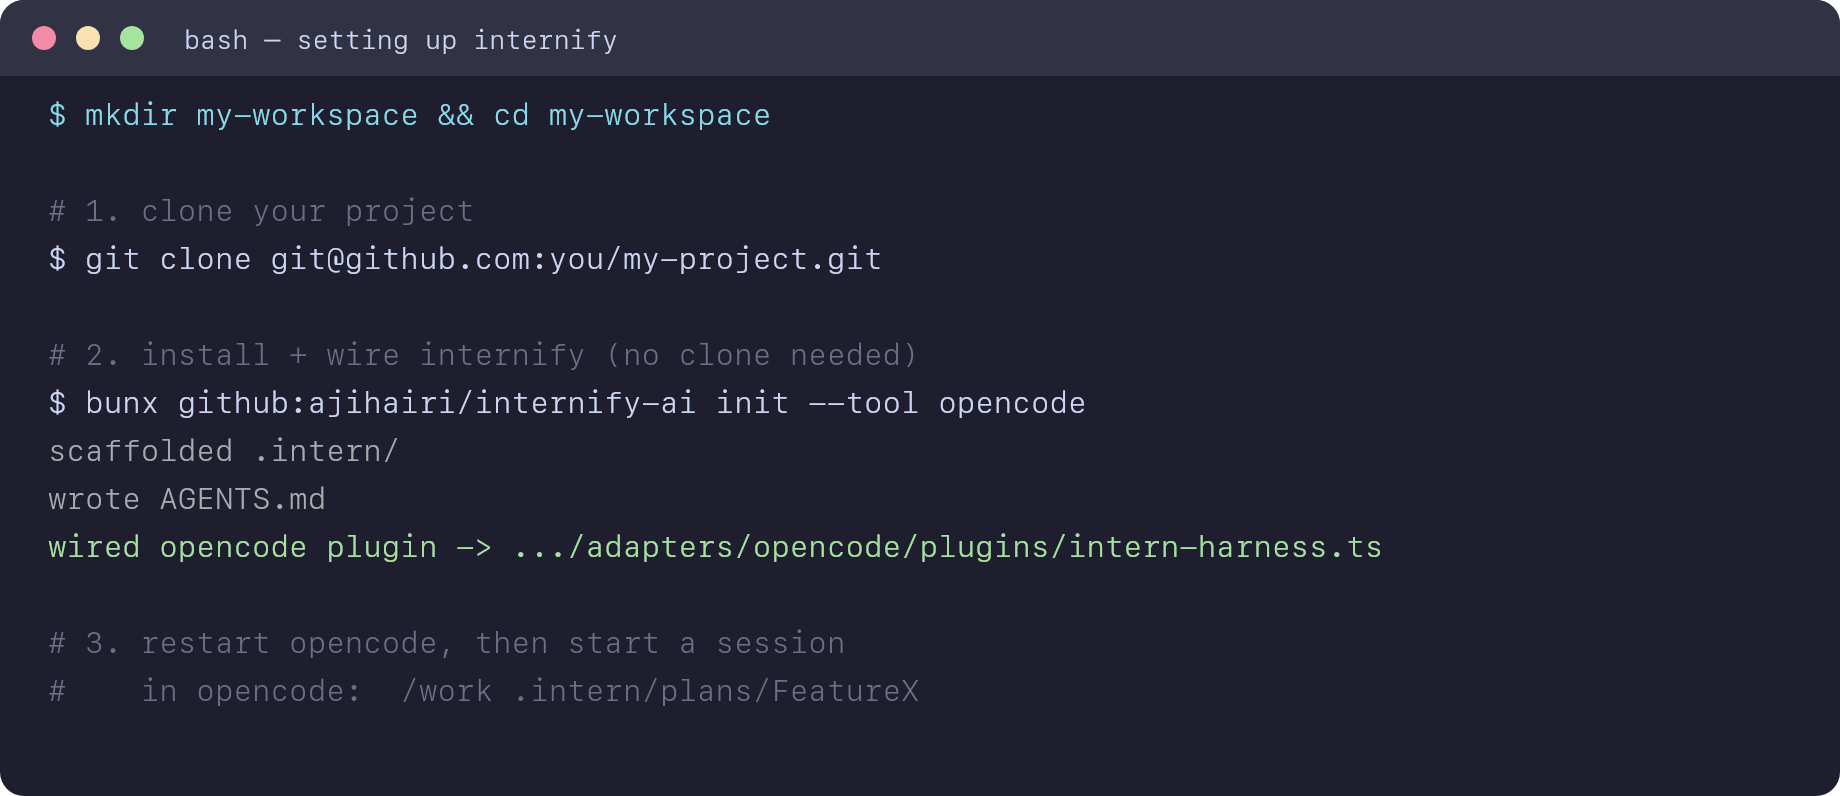
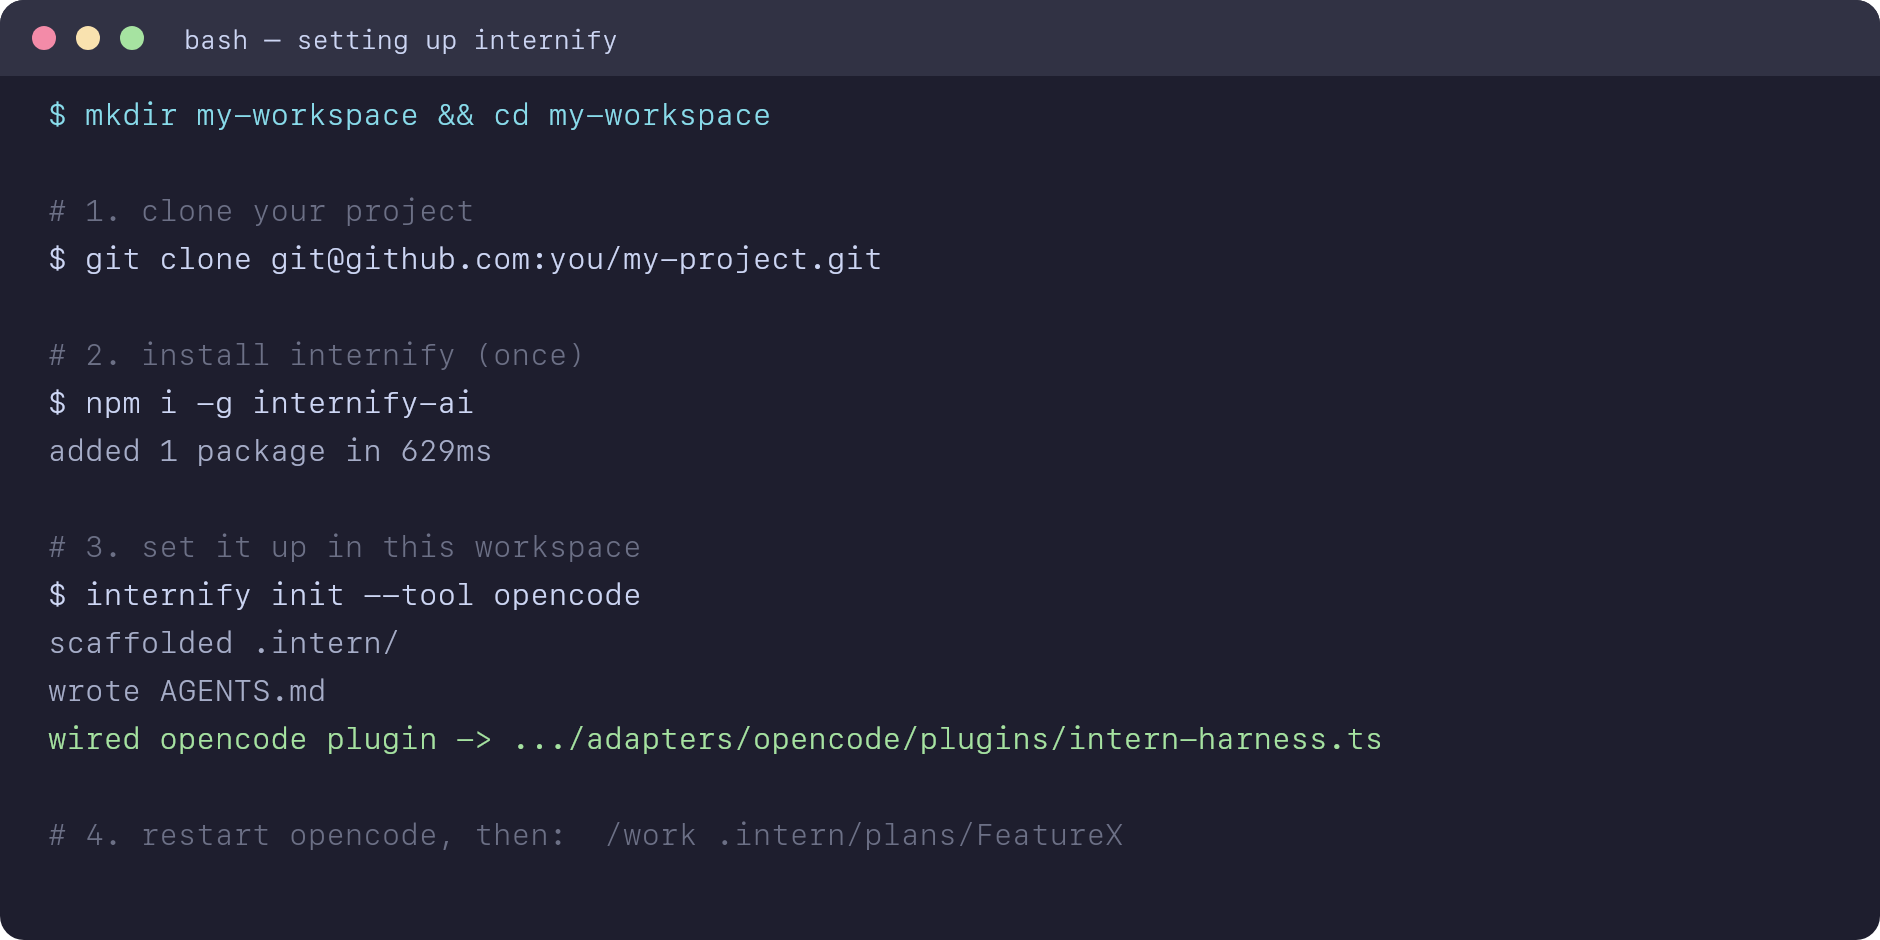
docs: npm is live — badge, npm-first install, regenerate from-zero walkthrough

diff --git a/README.md b/README.md
@@ -1,5 +1,8 @@
 # internify-ai
 
+[![npm version](https://img.shields.io/npm/v/internify-ai.svg)](https://www.npmjs.com/package/internify-ai)
+[![license: MIT](https://img.shields.io/badge/license-MIT-blue.svg)](./LICENSE)
+
 **A disk-backed engineer loop for AI agents.** Context lives on disk, not in the
 model's head — so agents stop hallucinating and stop losing grounding across
 sessions and compactions.
@@ -225,19 +228,16 @@ internify-ai/
 ### Install the CLI
 
 ```bash
-# from GitHub (SSH) — works today
-bun add -g git+ssh://git@github.com/ajihairi/internify-ai.git
-# or HTTPS
-bun add -g git+https://github.com/ajihairi/internify-ai.git
+# from npm (recommended)
+npm i -g internify-ai        # or: bun add -g internify-ai
 
 internify --help
 
-# from npm (once published)
-npm i -g internify-ai
+# or from GitHub (SSH)
+bun add -g git+ssh://git@github.com/ajihairi/internify-ai.git
 ```
 
 > No global install wanted? Run it from the checkout: `bun /path/to/internify-ai/core/cli.ts <cmd>`.
-> `bunx github:ajihairi/internify-ai <cmd>` also works when GitHub's codeload host is reachable.
 
 ### Set up a workspace
 
